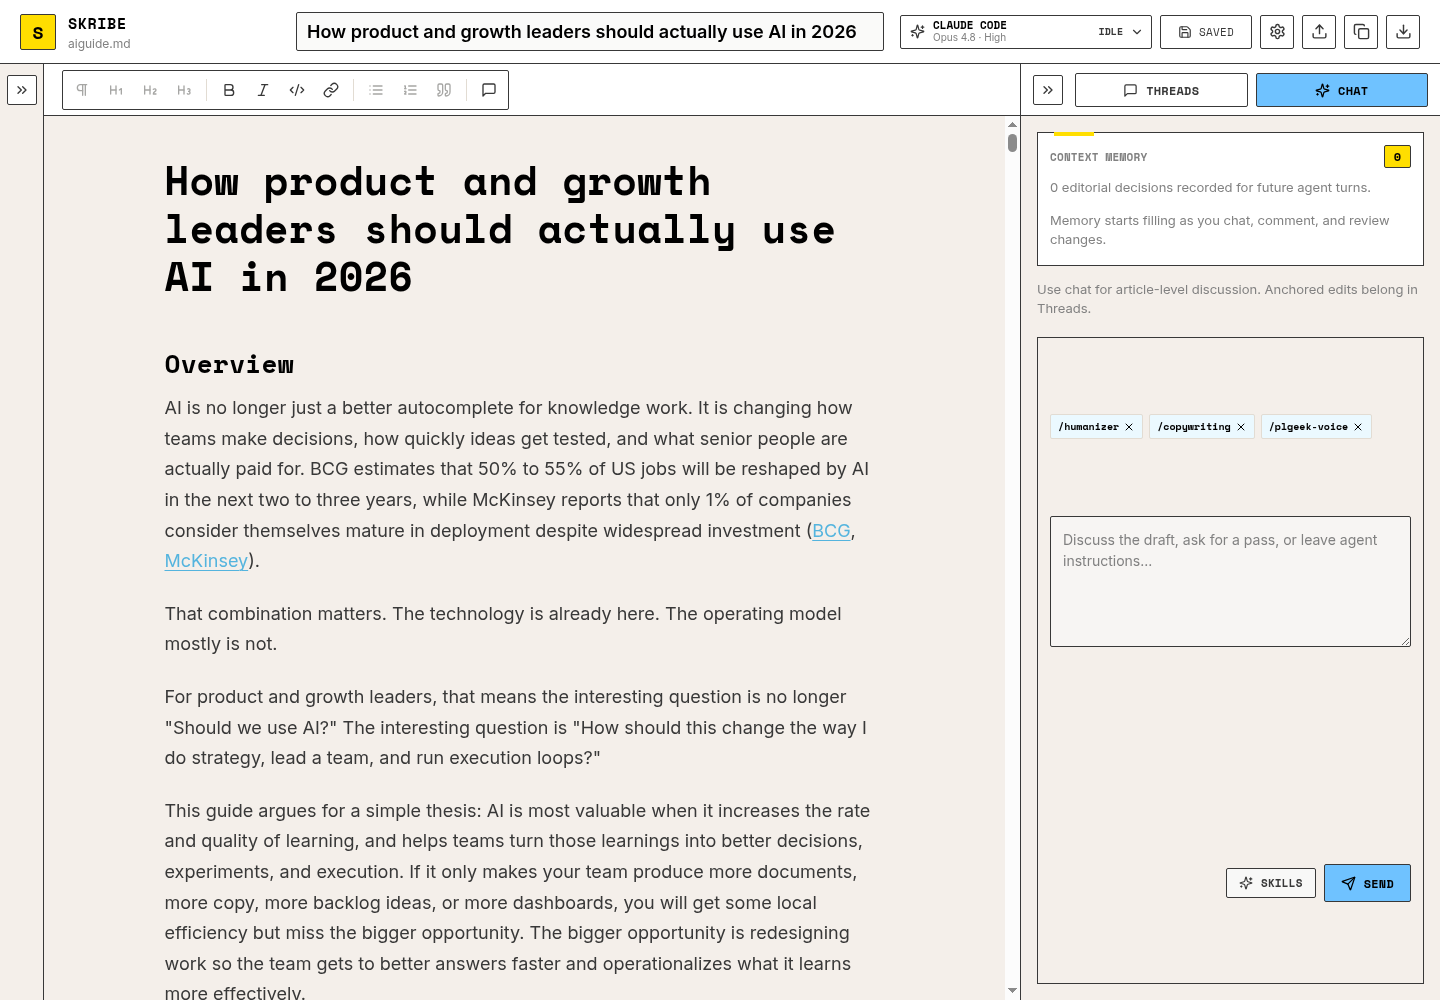
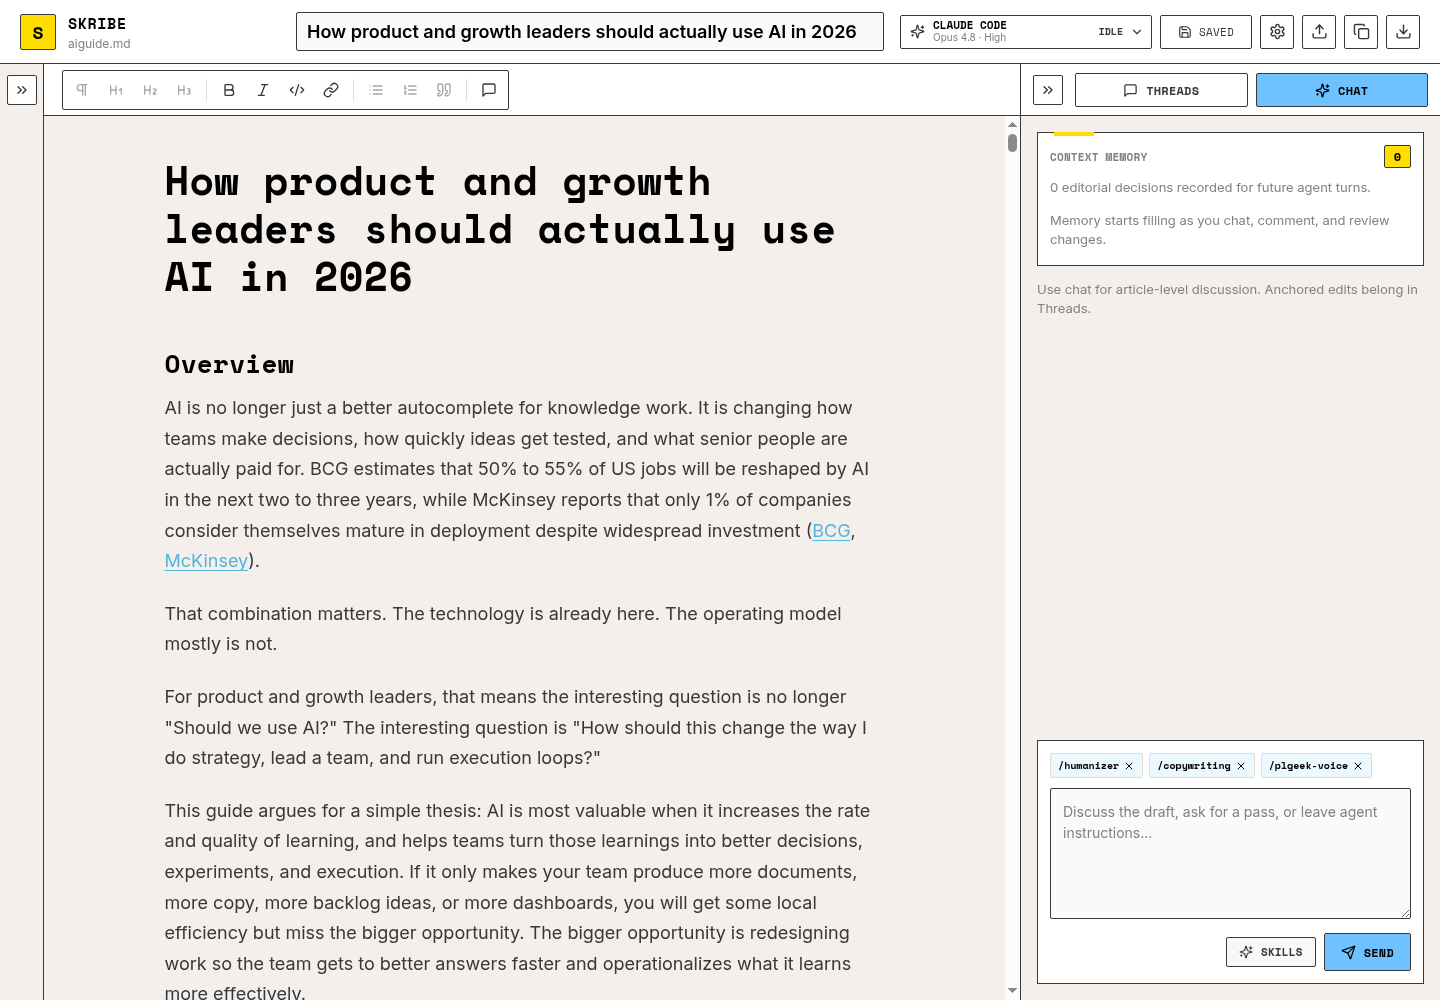
Polish README and chat panel

diff --git a/src/styles.css b/src/styles.css
@@ -2463,14 +2463,16 @@ select:focus,
 /* ---------- Chat panel ---------- */
 
 .panel-body.chat-panel {
-  display: grid;
-  grid-template-rows: auto 1fr auto;
+  display: flex;
+  flex-direction: column;
+  gap: 10px;
   height: calc(100vh - 116px);
   min-height: 0;
   overflow: hidden;
 }
 
 .chat-stack {
+  flex: 1 1 auto;
   overflow: auto;
   min-height: 0;
   align-content: start;
@@ -2552,10 +2554,17 @@ select:focus,
 }
 
 .chat-composer {
-  position: sticky;
-  bottom: 0;
-  background: var(--canvas-oat);
-  padding-top: 8px;
+  flex: 0 0 auto;
+  margin-top: 0;
+  background: var(--paper-white);
+}
+
+.chat-composer .skill-composer {
+  gap: 10px;
+}
+
+.chat-composer textarea {
+  min-height: 112px;
 }
 
 .empty-note {

diff --git a/README.md b/README.md
@@ -22,6 +22,17 @@ Skribe is built around the document:
 - **Local-only storage** for the Markdown file, review state, settings, revisions, and sidecars.
 - **Provider-agnostic agent runtime** with support for Codex CLI, Claude Code, or automatic runtime selection.
 
+## Threads vs Chat
+
+Skribe has two agent conversation surfaces because they serve different editorial jobs.
+
+| Surface | Use it for | What the agent sees |
+| --- | --- | --- |
+| **Threads** | Anchored comments on selected text, paragraph-level rewrites, local clarification, and focused suggestions. | The selected passage, the thread history, relevant document context, and previous decisions. |
+| **Chat** | Article-level discussion, broad review passes, structural edits, skill-driven rewrites, and document-level diffs. | The wider document, chat history, context memory, open proposals, thread decisions, and selected skills. |
+
+Use Threads when the question belongs to a specific passage. Use Chat when the question belongs to the whole draft.
+
 ## Screenshots
 
 ### Editor
@@ -165,7 +176,7 @@ npm run build
 
 ## Project Status
 
-Skribe is early and intentionally local-first. It is useful today for Markdown drafting and AI-assisted review, but the editor and agent workflow are still being hardened. Issues and focused PRs are welcome.
+Skribe is early and intentionally local-first. It is useful today for Markdown drafting and AI-assisted review, but the editor and agent workflow are still being hardened. The source is public for transparency and local use, but external contributions are not open at this stage.
 
 ## License
 